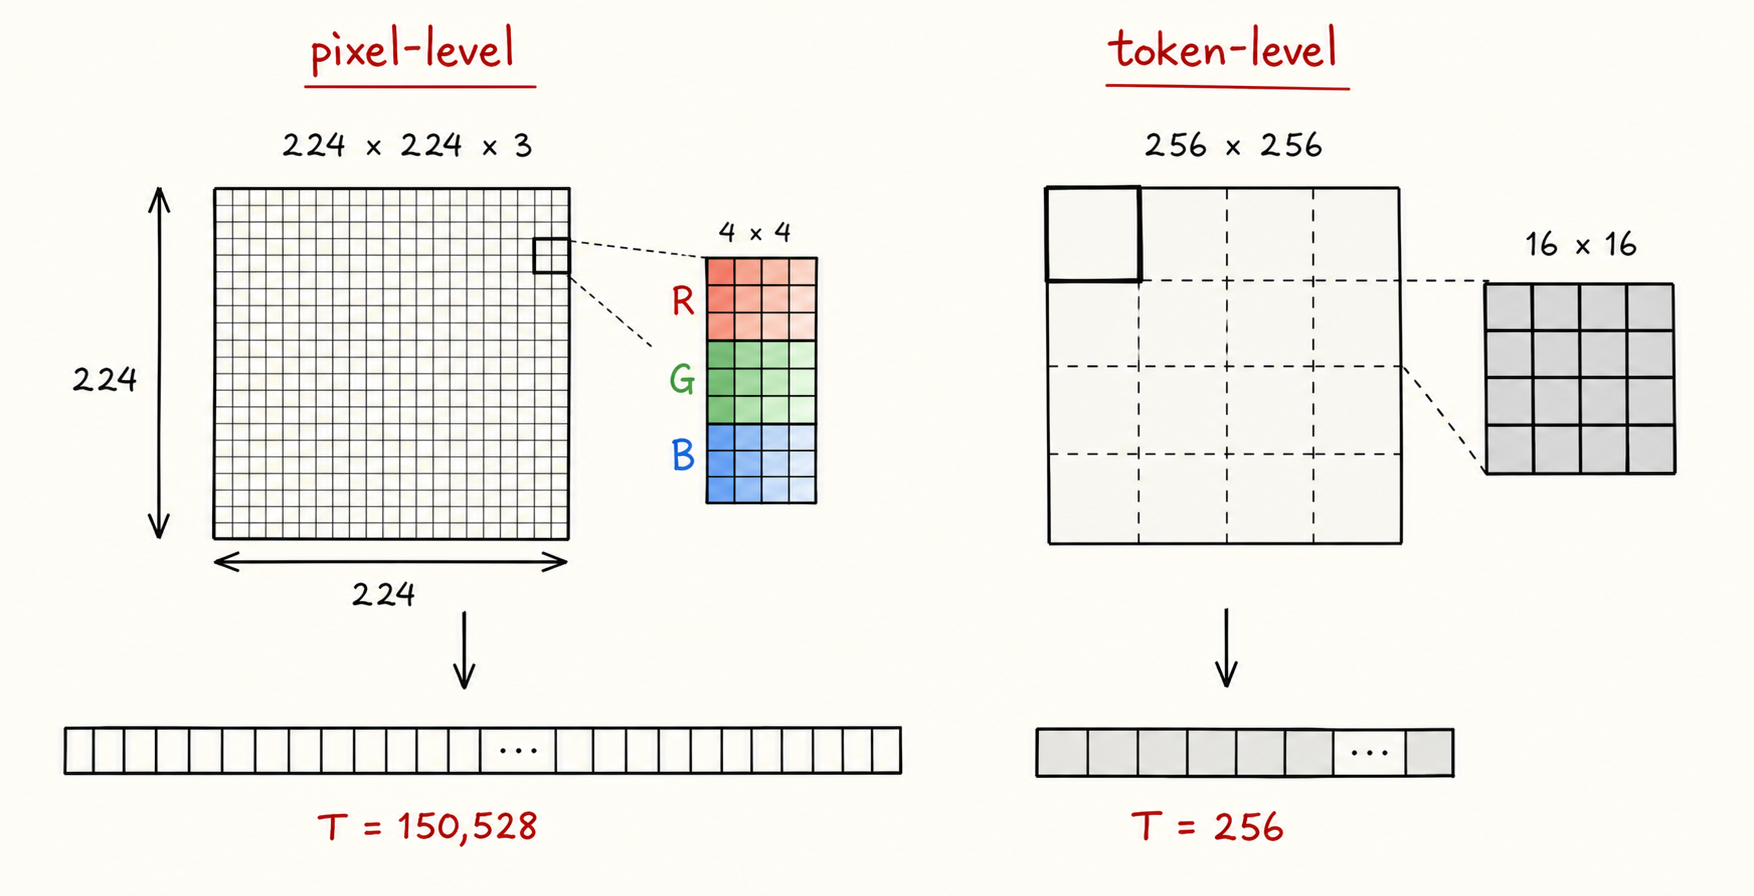
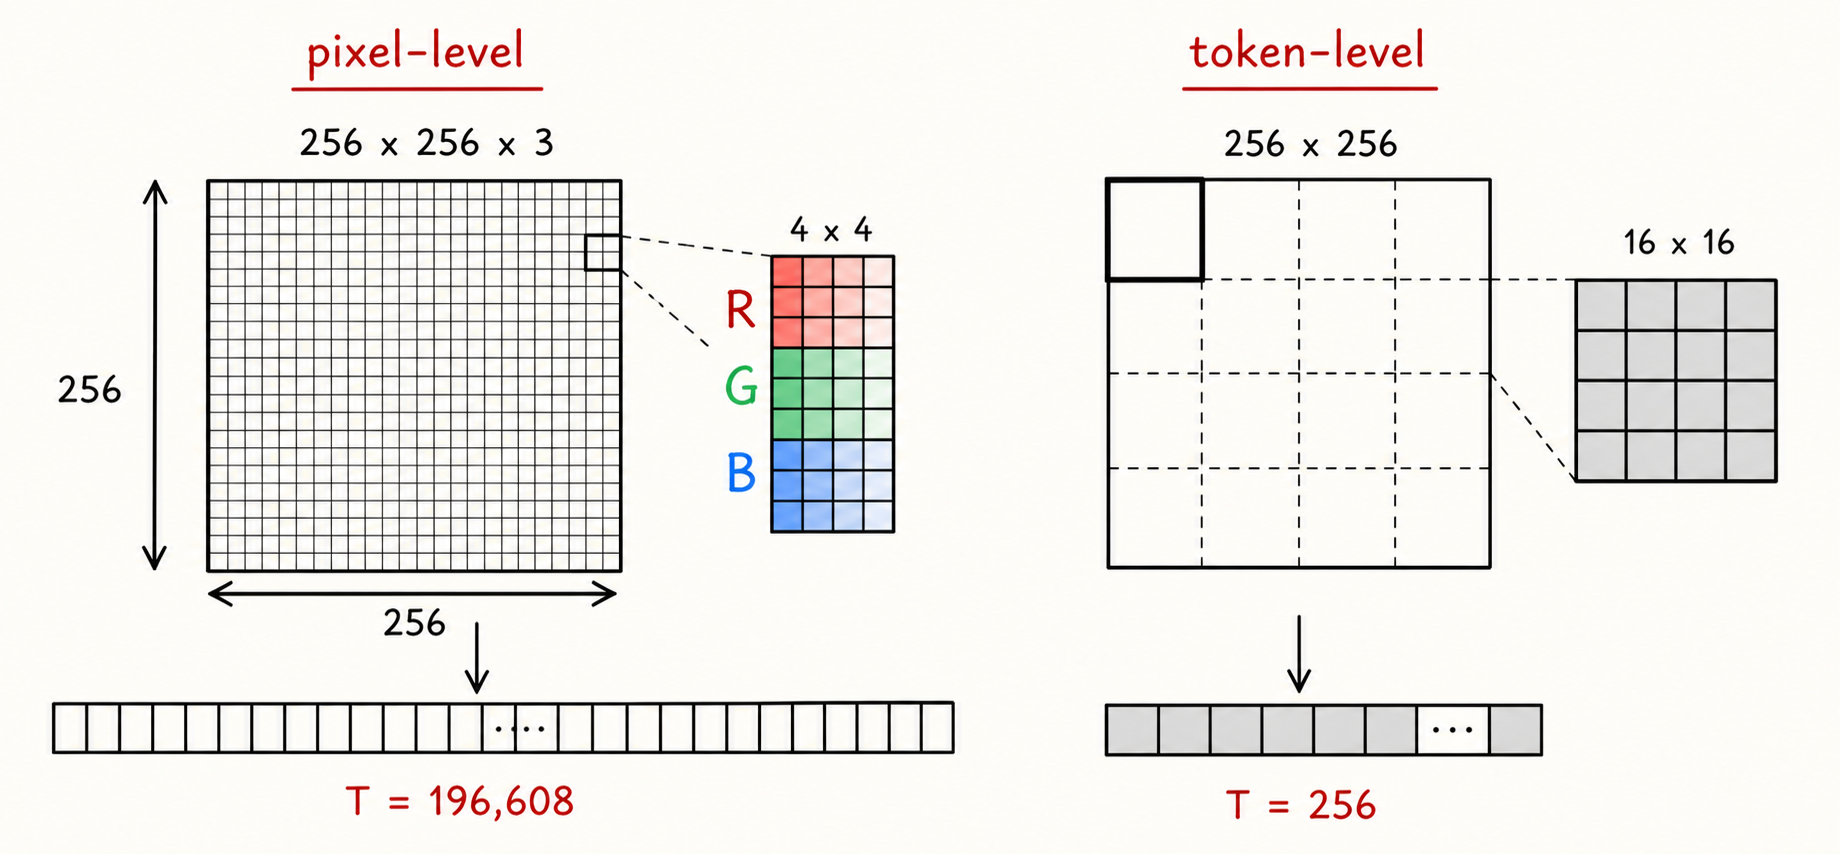
Correct pixel sequence figure resolution

diff --git a/Chapters/ch02_background.tex b/Chapters/ch02_background.tex
@@ -22,7 +22,7 @@ An autoregressive image model must therefore make two design choices before it c
 The scaling constraint is central. If a transformer receives a sequence of length $T$, full self-attention has $\mathcal{O}(T^2)$ time and memory cost. For image-like inputs, $T$ can be very large if we flatten at pixel level. A concrete order-of-magnitude comparison is:
 
 \begin{align}
-\text{pixel-level sequence for }224\times224\text{ RGB: } &T = 224 \times 224 \times 3 = 150{,}528 \\
+\text{pixel-level sequence for }256\times256\text{ RGB: } &T = 256 \times 256 \times 3 = 196{,}608 \\
 \text{token-level sequence for }256\times256\text{ with }f=16: &T = 16 \times 16 = 256
 \end{align}
 
